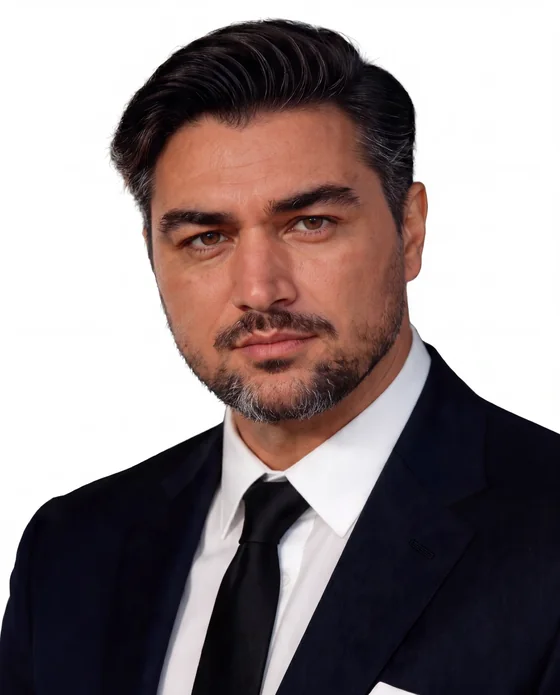
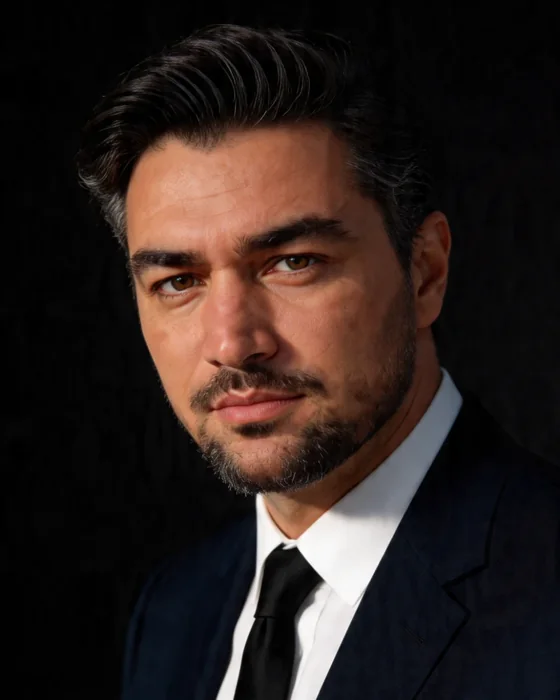
feat: new portrait with dark editorial frame

diff --git a/assets/css/site.css b/assets/css/site.css
@@ -58,12 +58,12 @@ h1 em{font-style:italic;font-weight:300;color:var(--blue)}
 .cta{display:flex;flex-wrap:wrap;gap:12px}
 
 .arch{position:relative;justify-self:end;width:min(100%,400px);aspect-ratio:4/5;margin:0 0 18px 18px}
-.arch-ring{position:absolute;inset:0;transform:translate(-18px,18px);background:var(--ink);border-radius:6px}
+.arch-ring{position:absolute;inset:0;transform:translate(-18px,18px);background:linear-gradient(135deg,var(--blue),#0a2a6e);border-radius:6px}
 .arch-ring::after{content:"";position:absolute;left:14px;bottom:14px;width:34px;height:34px;border-left:2px solid var(--cyan);border-bottom:2px solid var(--cyan)}
-.arch-clip{position:absolute;inset:0;border-radius:6px;overflow:hidden;background:linear-gradient(180deg,#e6edf9,#cfdcf3);box-shadow:0 30px 60px rgb(12 18 35 / .25)}
+.arch-clip{position:absolute;inset:0;border-radius:6px;overflow:hidden;background:#05070f;box-shadow:0 30px 60px rgb(12 18 35 / .25)}
 .arch-clip::before{content:"";position:absolute;right:14px;top:14px;width:34px;height:34px;border-right:2px solid var(--blue);border-top:2px solid var(--blue);z-index:2}
-.arch-clip canvas{position:absolute;left:0;bottom:0;width:100%;height:40%;opacity:.45}
-.arch-clip img.me{position:absolute;inset:0;width:100%;height:100%;object-fit:cover;object-position:50% 10%;mix-blend-mode:multiply}
+.arch-clip canvas{display:none}
+.arch-clip img.me{position:absolute;inset:0;width:100%;height:100%;object-fit:cover;object-position:50% 20%}
 .tag{position:absolute;z-index:2;background:var(--ink);color:#fff;border-radius:14px;padding:11px 15px;font-size:12.5px;line-height:1.35;box-shadow:0 14px 34px rgb(12 18 35 / .3)}
 .tag b{display:block;font:600 15px var(--serif)}
 .tag.a{left:-48px;bottom:60px}.tag.b{right:-14px;top:9%}

diff --git a/index.html b/index.html
@@ -67,7 +67,7 @@
       <div class="arch rv" aria-hidden="false">
         <div class="arch-ring"></div>
         <div class="arch-clip">
-          <canvas id="field" aria-hidden="true"></canvas>
+          
           <img class="me" src="assets/img/portrait-900.webp" srcset="assets/img/portrait-560.webp 560w, assets/img/portrait-900.webp 900w" sizes="430px" width="900" height="1117" alt="Portrait of Ahmet S. Ozturk" fetchpriority="high">
         </div>
         <div class="tag a"><b>London → Istanbul → Dubai</b><span data-tr>2009'dan bugüne</span><span data-en>2009 to today</span></div>
